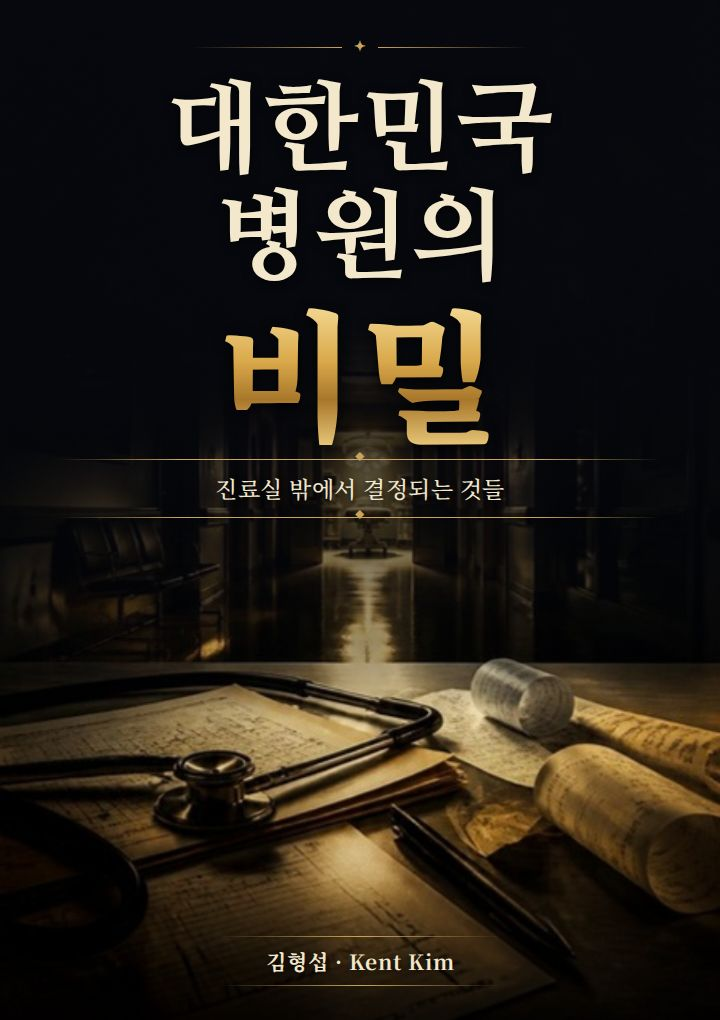
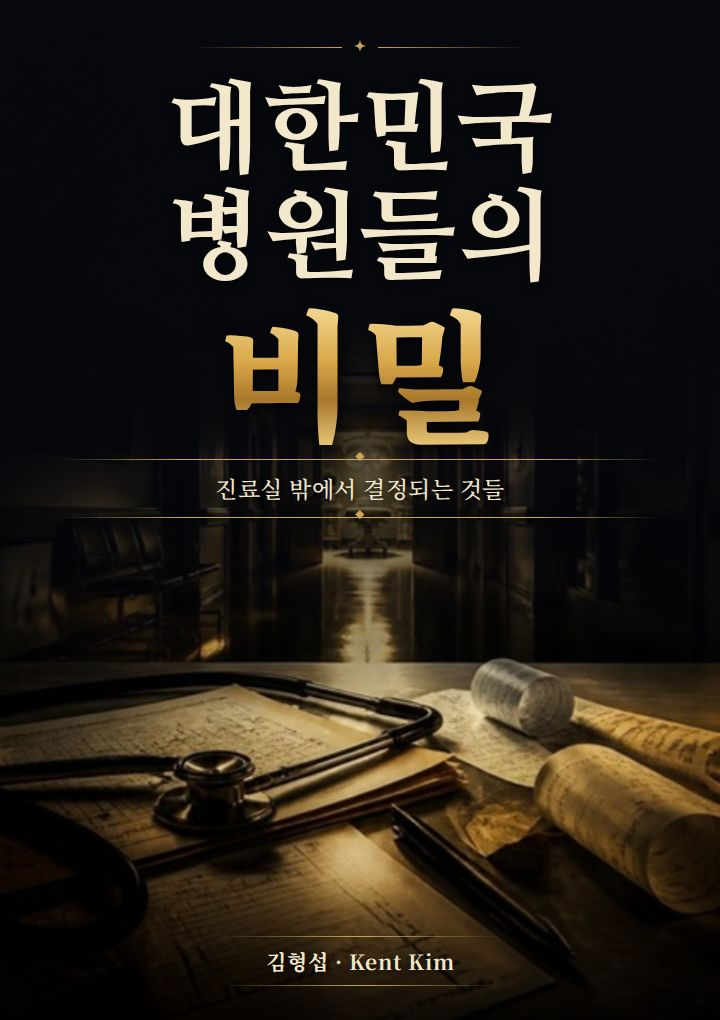
Show the secret series as one cover grid; rename and swap topics
The side-scrolling cover strip and the text list become a single grid
(7 columns on desktop, 3 on phones) where tapping a cover votes.
Topics: 상장과 공모주 → 대한민국 부동산, 국세청 → 대한민국 세금,
시간관리 → 홀덤; 의사·병원 renamed to 대한민국 ...들의 비밀.

Claude-Session: https://claude.ai/code/session_01Siq2fahSSAbSdJF6HecZzm

Changed region(s): [[0.2444, 0.1824, 0.7639, 0.2735]]

diff --git a/app.js b/app.js
@@ -59,7 +59,6 @@ const SECRETS = [
 {"n": 28, "cat": "money", "t": "ETF의 비밀"},
 {"n": 29, "cat": "money", "t": "달러의 비밀"},
 {"n": 30, "cat": "money", "t": "공매도의 비밀"},
-{"n": 31, "cat": "money", "t": "상장과 공모주의 비밀"},
 {"n": 32, "cat": "world", "t": "미국 카지노 산업의 비밀"},
 {"n": 33, "cat": "money", "t": "로또의 비밀", "img": "covers/lotto.jpg", "ct": "로또의 비밀", "sub": "확률과 욕망, 그리고 당첨금의 행방"},
 {"n": 34, "cat": "money", "t": "대한민국 아파트의 비밀"},
@@ -70,13 +69,11 @@ const SECRETS = [
 {"n": 40, "cat": "law", "t": "대한민국 유언장의 비밀"},
 {"n": 41, "cat": "money", "t": "미국 주식의 비밀"},
 {"n": 44, "cat": "world", "t": "패밀리오피스의 비밀", "img": "covers/familyoffice.jpg", "ct": "패밀리오피스의 비밀", "sub": "초부자들은 재산을 어떻게 지키는가"},
-{"n": 45, "cat": "law", "t": "국세청의 비밀"},
 {"n": 46, "cat": "world", "t": "조세피난처의 비밀", "img": "covers/taxhaven.jpg", "ct": "조세피난처의 비밀", "sub": "세금이 사라지는 섬들의 지도"},
 {"n": 47, "cat": "world", "t": "스위스 은행의 비밀", "img": "covers/swissbank.jpg", "ct": "스위스 은행의 비밀", "sub": "비밀계좌의 신화와 현실"},
 {"n": 48, "cat": "digital", "t": "저작권의 비밀"},
 {"n": 49, "cat": "world", "t": "실리콘밸리의 비밀", "img": "covers/siliconvalley.jpg", "ct": "실리콘밸리의 비밀", "sub": "아이디어가 돈이 되는 곳의 규칙"},
 {"n": 52, "cat": "digital", "t": "데이팅앱의 비밀"},
-{"n": 57, "cat": "grow", "t": "시간관리의 비밀"},
 {"n": 60, "cat": "world", "t": "중동 오일머니의 비밀"},
 {"n": 65, "cat": "faith", "t": "사이비 종교의 비밀"},
 {"n": 66, "cat": "world", "t": "중국 경제의 비밀"},
@@ -86,8 +83,8 @@ const SECRETS = [
 {"n": 72, "cat": "digital", "t": "반도체 산업의 비밀", "img": "covers/semiconductor.jpg", "ct": "반도체 산업의 비밀", "sub": "한 장의 칩이 세계 패권을 가른다"},
 {"n": 73, "cat": "digital", "t": "다크웹의 비밀", "img": "covers/darkweb.jpg", "ct": "다크웹의 비밀", "sub": "검색되지 않는 인터넷의 깊은 곳"},
 {"n": 74, "cat": "life", "t": "국민연금의 비밀", "img": "covers/pension.jpg", "ct": "대한민국 연금의 비밀", "sub": "내가 낸 돈은 언제, 얼마나 돌아오는가"},
-{"n": 75, "cat": "life", "t": "병원의 비밀", "img": "covers/hospital.jpg", "ct": "대한민국 병원의 비밀", "sub": "진료실 밖에서 결정되는 것들"},
-{"n": 76, "cat": "life", "t": "의사의 비밀"},
+{"n": 75, "cat": "life", "t": "대한민국 병원들의 비밀", "img": "covers/hospital.jpg", "ct": "대한민국 병원들의 비밀", "sub": "진료실 밖에서 결정되는 것들"},
+{"n": 76, "cat": "life", "t": "대한민국 의사들의 비밀"},
 {"n": 77, "cat": "life", "t": "제약회사의 비밀", "img": "covers/pharma.jpg", "ct": "미국 제약회사의 비밀", "sub": "신약 하나에 걸린 돈과 권력"},
 {"n": 78, "cat": "world", "t": "일본 파친코 산업의 비밀", "img": "covers/pachinko.jpg", "ct": "일본 파친코 산업의 비밀", "sub": "구슬 하나로 움직이는 거대한 회색 경제"},
 {"n": 79, "cat": "digital", "t": "클로드의 비밀", "img": "covers/claude.jpg", "ct": "클로드의 비밀", "sub": "가장 똑똑한 AI 동료를 쓰는 법"},
@@ -108,7 +105,10 @@ const SECRETS = [
 {"n": 94, "cat": "digital", "t": "AI로 고소장 만드는 비밀", "img": "covers/aicomplaint.jpg", "ct": "AI로 고소장 만드는 비밀", "sub": "법률 문서 초안을 AI로 쓰는 법"},
 {"n": 95, "cat": "digital", "t": "AI로 HTML5 게임 만드는 비밀", "img": "covers/html5.jpg", "ct": "AI로 HTML5 게임 만드는 비밀", "sub": "코딩 몰라도 웹 게임 하나 완성하기"},
 {"n": 96, "cat": "digital", "t": "AI로 유니티 게임 만드는 비밀", "img": "covers/unity.jpg", "ct": "AI로 유니티 게임 만드는 비밀", "sub": "모바일 게임을 AI와 함께 만드는 법"},
-{"n": 97, "cat": "digital", "t": "AI로 언리얼 게임 만드는 비밀", "img": "covers/unreal.jpg", "ct": "AI로 언리얼 게임 만드는 비밀", "sub": "영화 같은 3D 게임을 AI로 만드는 법"}
+{"n": 97, "cat": "digital", "t": "AI로 언리얼 게임 만드는 비밀", "img": "covers/unreal.jpg", "ct": "AI로 언리얼 게임 만드는 비밀", "sub": "영화 같은 3D 게임을 AI로 만드는 법"},
+{"n": 98, "cat": "money", "t": "대한민국 부동산의 비밀"},
+{"n": 99, "cat": "law", "t": "대한민국 세금의 비밀"},
+{"n": 100, "cat": "power", "t": "홀덤의 비밀", "sub": "전세계에서 유일하게 홀덤이 불법인 대한민국"}
 ];
 const VOTE_MAX = 5;
 const CIRC = n => String.fromCharCode(n<=20 ? 0x245F+n : 0x323C+n);
@@ -269,21 +269,6 @@ b.addEventListener("click",()=>{sFilter=k; sMore=false; renderSecrets();});
 f.appendChild(b);
 }
 const full = votes.size >= VOTE_MAX;
-const cv = document.getElementById("secretCovers"); cv.innerHTML = "";
-for(const x of SECRETS.filter(x=>x.img)){
-const on = votes.has(x.n);
-const b = document.createElement("button");
-b.type="button"; b.className="cover"+(on?" on":"");
-b.setAttribute("aria-pressed", String(on));
-b.disabled = full && !on;
-b.innerHTML = `<img alt="" loading="lazy" width="720" height="1020"><span class="cv-t"></span><span class="cv-s"></span><span class="cv-v">${on?"✓ 투표함":(full?"5개 다 골랐어요":"+ 이 주제에 투표")}</span>`;
-b.querySelector("img").src = x.img;
-b.querySelector("img").alt = x.ct+" 표지";
-b.querySelector(".cv-t").textContent = x.ct;
-b.querySelector(".cv-s").textContent = x.sub;
-b.addEventListener("click",()=>{ votes.has(x.n)?votes.delete(x.n):votes.add(x.n); saveVotes(); renderSecrets(); });
-cv.appendChild(b);
-}
 const ey = document.getElementById("secretEyebrow"); if(ey) ey.textContent = `공개 예정 · 비밀 시리즈 후보 ${SECRETS.length}편`;
 const el = document.getElementById("secretList"); el.innerHTML = "";
 const shown = SECRETS.filter(x=>sFilter==="all" || x.cat===sFilter);
@@ -291,11 +276,13 @@ const cut = !sMore && shown.length > SECRET_PREVIEW;
 for(const x of cut ? shown.slice(0, SECRET_PREVIEW) : shown){
 const on = votes.has(x.n);
 const b = document.createElement("button");
-b.type="button"; b.className="secret"+(on?" on":"");
+b.type="button"; b.className="ctile"+(on?" on":"");
 b.setAttribute("aria-pressed", String(on));
 b.disabled = full && !on;
-b.innerHTML = `<span class="sn">${String(x.n).padStart(2,"0")}</span><span class="st"></span><span class="sv">${on?"✓":"+"}</span>`;
-b.querySelector(".st").textContent = x.t;
+b.innerHTML = (x.img ? `<img alt="" loading="lazy" width="720" height="1020">` : `<span class="ft"></span>`) + `<span class="cb" aria-hidden="true">${on?"✓":"+"}</span>`;
+if(x.img) b.querySelector("img").src = x.img; else b.querySelector(".ft").textContent = x.t;
+b.setAttribute("aria-label", (x.ct||x.t) + (x.sub ? " · "+x.sub : "") + (on ? " · 투표함" : ""));
+b.title = x.ct||x.t;
 b.addEventListener("click",()=>{ votes.has(x.n)?votes.delete(x.n):votes.add(x.n); saveVotes(); renderSecrets(); });
 el.appendChild(b);
 }

diff --git a/index.html b/index.html
@@ -116,6 +116,17 @@ section{padding-block:56px 0;display:grid;gap:24px}
 .goal-track{height:10px;border-radius:999px;background:var(--line);overflow:hidden}
 .goal-track span{display:block;height:100%;background:var(--accent);border-radius:999px}
 .goal p{font-size:14px;color:var(--muted)}
+.cgrid{display:grid;grid-template-columns:repeat(7,1fr);gap:10px}
+.ctile{position:relative;display:block;padding:0;border:2px solid transparent;border-radius:10px;background:var(--surface);overflow:hidden;cursor:pointer;aspect-ratio:720/1020;transition:transform .15s,border-color .15s}
+.ctile:hover{transform:translateY(-2px)}
+.ctile img{width:100%;height:100%;object-fit:cover;display:block}
+.ctile .cb{position:absolute;right:6px;bottom:6px;width:26px;height:26px;border-radius:50%;background:rgba(10,12,18,.72);color:#fff;display:grid;place-items:center;font-size:15px;line-height:1;border:1px solid rgba(255,255,255,.35)}
+.ctile.on{border-color:var(--accent)}.ctile.on .cb{background:var(--accent);color:var(--accent-ink);border-color:var(--accent);font-weight:700}
+.ctile:disabled{cursor:not-allowed;transform:none}.ctile:disabled .cb{opacity:.35}
+.ctile .ft{position:absolute;inset:0;display:grid;place-items:center;padding:10px;text-align:center;color:#f3e7cc;font-size:14px;font-weight:700;word-break:keep-all;background:linear-gradient(180deg,#0b0d14,#1a1d2a)}
+@media (max-width:1000px){.cgrid{grid-template-columns:repeat(6,1fr)}}
+@media (max-width:860px){.cgrid{grid-template-columns:repeat(4,1fr)}}
+@media (max-width:620px){.cgrid{grid-template-columns:repeat(3,1fr);gap:8px}.ctile .cb{width:22px;height:22px;font-size:13px;right:4px;bottom:4px}}
 .covers-head{margin:0 0 10px;color:var(--muted);font-size:14px}.covers-head b{color:var(--ink);margin-right:6px}
 .covers{display:grid;grid-auto-flow:column;grid-auto-columns:calc((100% - 56px)/4.4);gap:14px;margin-bottom:22px;overflow-x:auto;scroll-snap-type:x mandatory;padding-bottom:8px;scrollbar-width:thin}
 .covers .cover{scroll-snap-align:start}
@@ -272,10 +283,9 @@ footer{padding-block:32px 0;font-size:13px;color:var(--muted)}
 <div class="sec-head"><span class="eyebrow" id="secretEyebrow">공개 예정 · 비밀 시리즈 후보 78편</span><h2>켄트김의 비밀 시리즈</h2>
 <p>우리가 매일 접하지만, 누구도 제대로 가르쳐주지 않았던 돈·권력·법률·종교·기술의 숨은 구조를 살펴봅니다. 1편 최소 90분 온라인 강의로 매달 6~7편씩 공개합니다.</p>
 <p><b style="color:var(--ink)">어떤 주제부터 만들까요?</b> 먼저 듣고 싶은 주제를 최대 5개 골라 신청서로 보내 주세요. 표가 많은 주제부터 만들고, 표가 적은 주제는 만들지 않거나 다른 주제로 바꿀 수 있습니다.</p></div>
-<p class="covers-head"><b>표지 먼저 공개</b> 표를 많이 받으면 이런 표지로 만들어 올립니다. 옆으로 넘겨 보세요 →</p>
-<div class="covers" id="secretCovers"></div>
 <div class="filters" role="group" aria-label="비밀 시리즈 분야 필터" id="secretFilters"></div>
-<div class="secrets" id="secretList"></div>
+<p class="covers-head"><b>표지를 눌러 투표하세요</b> 듣고 싶은 주제를 최대 5개까지 고를 수 있습니다.</p>
+<div class="cgrid" id="secretList"></div>
 <button class="btn btn-ghost more-btn" type="button" id="secretMore" hidden></button>
 <div class="vote">
 <div class="vote-info"><b id="voteCount"></b><span id="voteText"></span><span id="voteMsg" role="status"></span></div>
